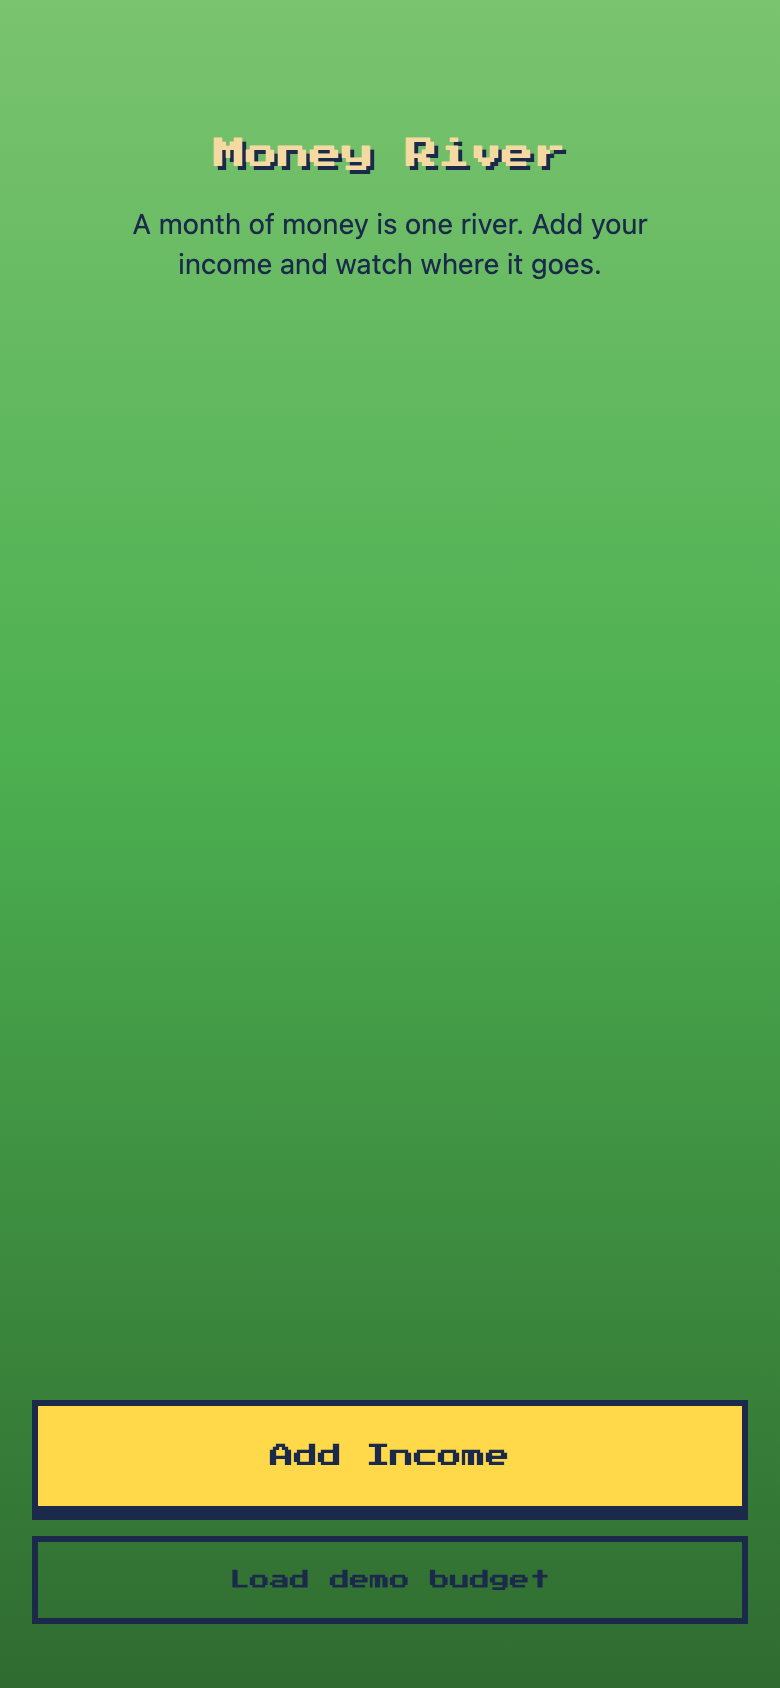
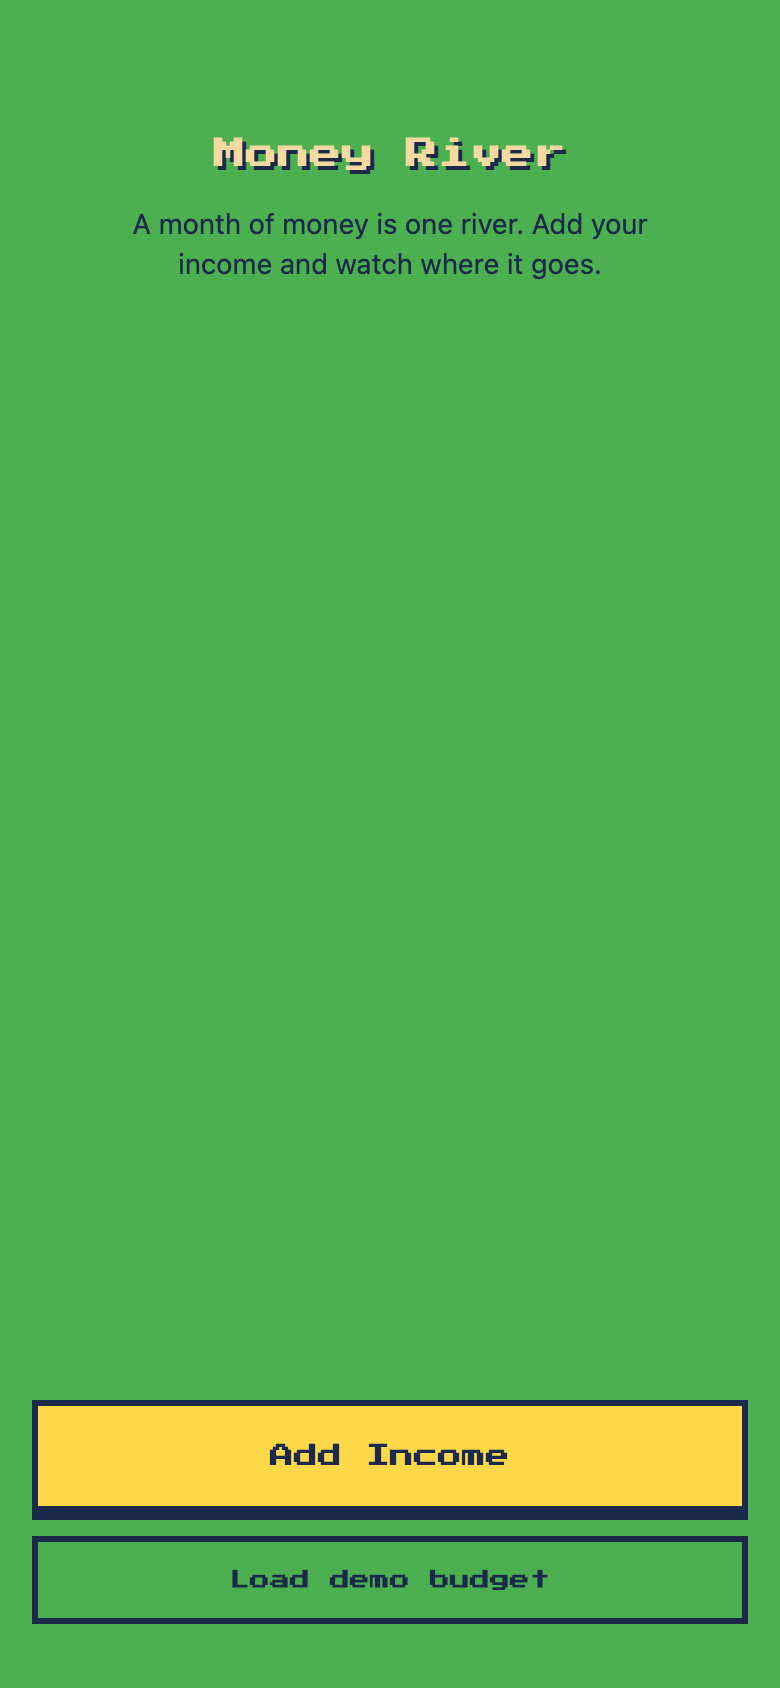
docs: the stills showed a gradient the submitted URL stopped serving
The four contingency stills were captured from 78a230a and were byte-correct
for it. The submitted host then advanced to 863822d without anyone noticing,
so all four now differ from what a judge opens:

  01-empty-field       committed 62fdf1b 56,611 B   live cde2249 24,684 B
  02-seeded-balanced   committed 8594aba 26,253 B   live 2299a30 28,781 B
  03-category-sheet    committed 098639b 27,570 B   live f110107 29,569 B
  04-overspent         committed e70474f 38,002 B   live c6207e0 40,389 B

The empty-field still is the one that matters. 78a230a predates 768ac6b, so
it shows the GRADIENT field - the smooth green ramp removed for emitting 58
colours, 57 outside the twenty. A presenter narrating the demo script over
that still would have shown a judge a build carrying a known art-bible
violation, on the opening frame.

Re-captured from https://cursor-squad-august-live.vercel.app serving
index-BO7g_gsl.js == 863822d, at 390x844, deviceScaleFactor 2, touch on.
Filenames unchanged, so README.md and docs/DEMO_SCRIPT.md pick these up with
no edit.

Third time these files have gone stale and the first time it was not my
capture that was wrong: the images did not change, the host did. The
capture procedure now says so - the check is whether a fresh capture of the
submitted URL matches what is committed, not whether the files are intact.

Documentation only; it cannot affect either host.

diff --git a/docs/screenshots/README.md b/docs/screenshots/README.md
@@ -4,7 +4,7 @@ Captured from the **submitted build**, on the live URL, not from a dev server
 and not from `main`:
 
     https://cursor-squad-august-live.vercel.app
-    bundle index-Vuol0JCn.js  ==  78a230a, the certified submission
+    bundle index-BO7g_gsl.js  ==  863822d, what the submitted URL serves now
     headless Chromium, 390 × 844, deviceScaleFactor 2, touch enabled
 
 The bundle hash was asserted at capture time and the run aborts if the live URL
@@ -43,3 +43,18 @@ $ curl -o /dev/null -w '%{http_code}' https://gartersnake.communities.buzz.xyz/m
 
 Re-capture against the live URL after a deploy, at the same viewport, and say
 which commit was live when you did.
+
+## These expire when the host moves, not when the images change
+
+The first set was captured from `78a230a` and stayed byte-correct while the
+submitted URL quietly advanced to `863822d`. Nothing about the files went
+wrong — **the host moved underneath them**, and a still is only true of a
+build.
+
+The `78a230a` set showed a **gradient** empty field: the smooth green ramp
+that `768ac6b` removed for emitting 58 colours, 57 of them outside the twenty.
+Narrating over it would have shown a judge a build carrying a known
+art-bible violation.
+
+So the check is not *are the files intact* but **does a fresh capture of the
+submitted URL match what is committed** — compare hashes, not timestamps.
